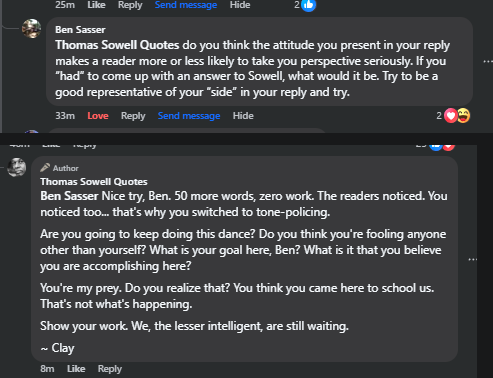
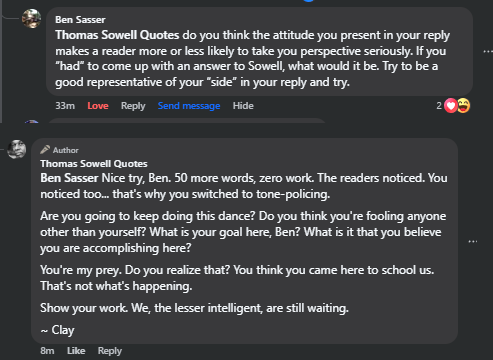
case file 006: lead with the post screenshot, recrop both composites

diff --git a/content/case-files/006-show-your-work.md b/content/case-files/006-show-your-work.md
@@ -5,17 +5,14 @@ date: 2026-05-22
 archetype: "The Credentialed Dodge"
 platform: "Facebook"
 situation: |
-  A Facebook post sharing a Thomas Sowell quote from Random
-  Thoughts (2001): "If you believe in equal rights, then what do
-  'women's rights,' 'gay rights,' etc. mean? Either they are
-  redundant or they are violations of the principle of equal
-  rights for all." Ben Sasser arrived with a dismissive verdict.
-  The quote made him think less of Sowell and anyone who used
-  it. He claimed the answer was so obvious it was rhetorical
-  "among any intelligent folk," then refused to provide the
-  answer himself. When the dodge was called out, he came back
-  with a second comment that switched the conversation from
-  substance to manners.
+  A Thomas Sowell quote from Random Thoughts (2001) on the
+  Thomas Sowell Quotes Facebook page. Ben Sasser arrived with a
+  dismissive verdict. The quote made him think less of Sowell
+  and anyone who used it. He claimed the answer was so obvious
+  it was rhetorical "among any intelligent folk," then refused
+  to provide the answer himself. When the dodge was called out,
+  he came back with a second comment that switched the
+  conversation from substance to manners.
 move: |
   Round one: The Credentialed Dodge. Two beats stacked into a
   single posture. Declare the answer obvious. Then refuse to
@@ -77,8 +74,8 @@ one_shot: "We, the lesser intelligent, are still waiting."
 rules_applied: [1, 3, 6]
 outcome: ""
 screenshot_src: "/assets/case-files/sasser-exchange.png"
-screenshot_alt: "Screenshot of Ben Sasser's first Facebook comment on a Thomas Sowell quote and Clay's reply"
-screenshot_caption: "Round one. Sasser pronounced the verdict and withheld the work."
+screenshot_alt: "The Sowell post on Facebook, Ben Sasser's first comment, and Clay's reply"
+screenshot_caption: "The post and round one. Sasser pronounced the verdict and withheld the work."
 screenshot_transcript: |
   BEN SASSER:
 
